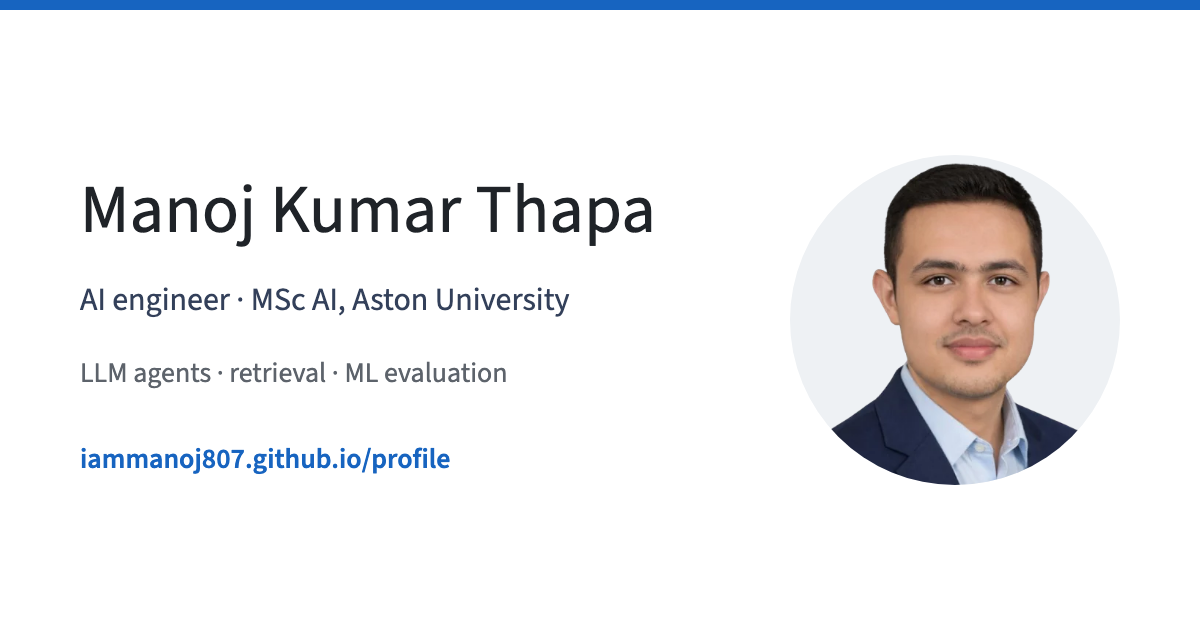
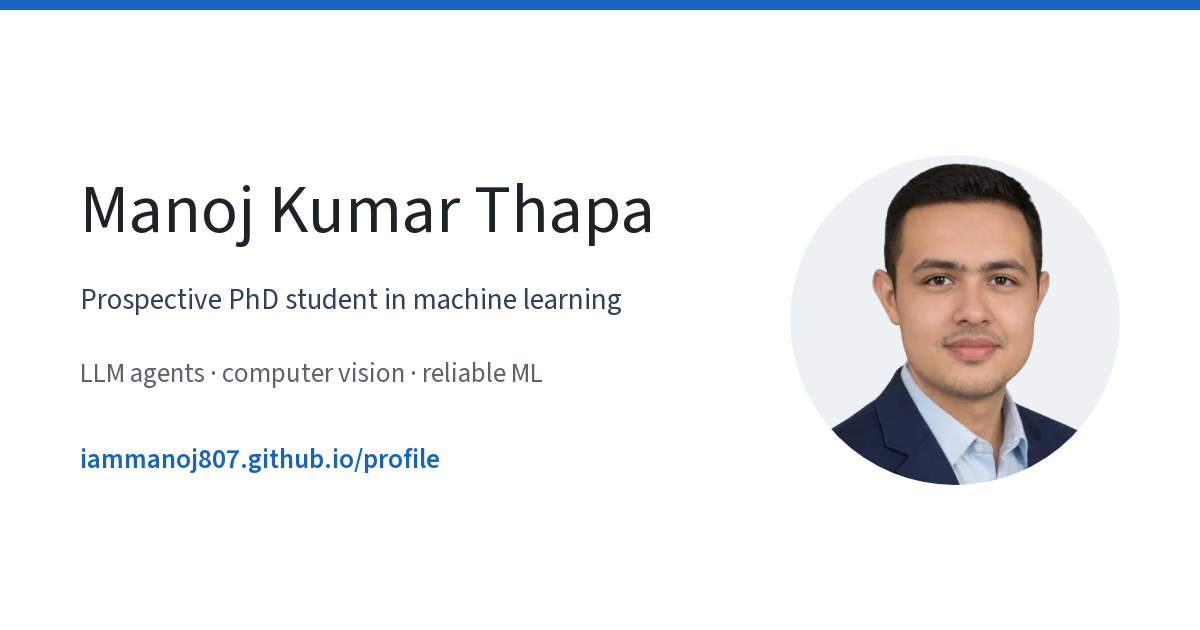
Point the homepage at PhD applications for Fall 2027

diff --git a/src/data/portfolioData.js b/src/data/portfolioData.js
@@ -13,15 +13,17 @@ import openNotebookLogo from '../assets/logos/open-notebook.png';
 
 export const portfolioData = {
     name: "Manoj Kumar Thapa",
-    title: "AI Software Engineer",
+    title: "Prospective PhD student in machine learning",
+    // Shown under the name on the homepage.
+    tagline: "Prospective PhD student in machine learning · Fall 2027",
     headlineWords: ["LLM agents", "graph-RAG systems", "vision models", "production APIs"],
     description: "MSc Artificial Intelligence graduate from Aston University. I build AI systems end to end: **Python and FastAPI** on the back, **React** on the front, and **golden sets, fault injection and baselines** to show they work. Before my MSc I was a software engineer at **Accenture**, where I cut REST API latency by **40%** in Java Spring Boot services.",
     resume_link: `${import.meta.env.BASE_URL}CV.pdf`,
     // Short bio for the homepage. {mergedCount} is filled in from openSource.
     bio: [
-        "I am an AI engineer in Birmingham, UK. I completed my MSc in Artificial Intelligence at **Aston University** in 2026; my dissertation studied how little labelled data a YOLOv8 detector needs. Before that I was a software engineer at **Accenture**, and I studied Computer Science at Dr. Ambedkar Institute of Technology.",
-        "I am interested in **LLM agents**, **retrieval** and the **evaluation of machine-learning systems**: building them, then checking that the numbers hold up. I also find and fix bugs in open-source ML libraries, and {mergedCount} of my pull requests have been merged. On [learn.hamropedia.com](https://learn.hamropedia.com/) I publish free courses in machine learning, SQL and system design.",
-        "I am looking for research opportunities in machine learning and am open to AI and ML engineering roles in the UK."
+        "I am applying to **PhD programs in Computer Science for Fall 2027**. I completed my MSc in Artificial Intelligence at **Aston University** in 2026; my thesis, supervised by Dr. Dan Dai, studied how far transfer learning can cut the labelled data an object detector needs. Before that I was a software engineer at **Accenture**, and I studied Computer Science at Dr. Ambedkar Institute of Technology.",
+        "My research interests are **large language models and AI agents**, **retrieval-augmented generation**, **computer vision**, **low-data and self-supervised learning**, and **reliable ML systems**. I like to build a model and then test whether its numbers hold up against baselines, ablations and reference implementations. I also find and fix bugs in widely used ML libraries: {mergedCount} of my pull requests have been merged, in projects including OpenCV, Feast and UC Berkeley's DocETL.",
+        "I am also open to research assistant positions in machine learning. On [learn.hamropedia.com](https://learn.hamropedia.com/) I publish free courses in machine learning, SQL and system design."
     ],
     address: "Birmingham, UK",
     relocation: "Open to relocation",
@@ -64,7 +66,7 @@ export const portfolioData = {
             title: "FruitGuard AI",
             screenshot: fruitguardShot,
             figure: fruitguardFig,
-            kicker: "MSc dissertation · computer vision",
+            kicker: "MSc thesis · computer vision",
             abstract: "Fine-tuned YOLOv8 with a two-phase transfer-learning pipeline: **96.3%** classification accuracy from only **207** labelled images, a 34x reduction against the 7,108 used for pre-training, **+6.03 pp** mAP@0.5:0.95 over the COCO-pretrained baseline, and **73 FPS** with ONNX Runtime.",
             highlight: true,
             date: "Aug 2025 – Apr 2026",
@@ -129,6 +131,7 @@ export const portfolioData = {
         },
         {
             title: "NeuroArc",
+            hidden: true, // not shown on the research-focused homepage
             screenshot: neuroarcShot,
             figure: neuroarcFig,
             kicker: "AI job application assistant",
@@ -152,6 +155,7 @@ export const portfolioData = {
 
     // News items besides merged PRs (those are listed automatically). date: "YYYY-MM" or "YYYY-MM-DD".
     news: [
+        { date: "2026-11-23", text: "Applying to **PhD programs in Computer Science** for Fall 2027." },
         { date: "2026-11-15", text: "Took part in the **2026 NASA Space Apps Challenge** (14–15 Nov) with Rehearsal Grounds, which finds Earth terrain that matches Moon and Mars landing sites." },
         { date: "2026-04-09", text: "Awarded my MSc in Artificial Intelligence by Aston University." }
     ],
@@ -400,7 +404,9 @@ export const portfolioData = {
             location: "Birmingham, UK",
             duration: "Jan 2025 – Jul 2026",
             grade: "70.37%",
-            gradeLabel: "Marks",
+            gradeLabel: "Average mark",
+            thesis: "Fruit Detection based on Transfer Learning for Agricultural Automation",
+            supervisor: "Dr. Dan Dai",
             transcript: `${import.meta.env.BASE_URL}transcripts/msc-ai-aston-transcript.jpg`,
             description: "Deep learning, NLP and computer vision. Dissertation: FruitGuard AI, few-shot fruit detection with YOLOv8, 96.3% accuracy from 207 labelled images, a 34x reduction against the pre-training set.",
             skills: ["PyTorch", "Deep Learning", "Computer Vision", "NLP", "Python"]

diff --git a/index.html b/index.html
@@ -4,30 +4,30 @@
 <head>
     <meta charset="UTF-8" />
     <meta name="viewport" content="width=device-width, initial-scale=1.0" />
-    <title>Manoj Kumar Thapa · AI Software Engineer</title>
+    <title>Manoj Kumar Thapa · Machine Learning</title>
     <meta name="description"
-        content="AI Software Engineer with an MSc in Artificial Intelligence from Aston University. Builds LLM agents, graph RAG and computer-vision systems, measured with golden sets and fault injection.">
+        content="Prospective PhD student in machine learning (Fall 2027). MSc Artificial Intelligence, Aston University. Research interests: LLMs and AI agents, retrieval, computer vision, low-data and self-supervised learning, reliable ML systems. 11 merged pull requests in OpenCV, Feast, DocETL and other ML libraries.">
     <meta name="theme-color" content="#faf9f6">
     <link rel="canonical" href="https://iammanoj807.github.io/profile/">
 
     <!-- Open Graph / Facebook -->
     <meta property="og:type" content="website">
     <meta property="og:url" content="https://iammanoj807.github.io/profile/">
-    <meta property="og:title" content="Manoj Kumar Thapa · AI Software Engineer">
+    <meta property="og:title" content="Manoj Kumar Thapa · Machine Learning">
     <meta property="og:description"
-        content="LLM agents, graph RAG and computer vision, measured before they ship. MSc Artificial Intelligence, Aston University.">
+        content="Prospective ML PhD student (Fall 2027). LLM agents, retrieval, computer vision and reliable ML. MSc Artificial Intelligence, Aston University.">
     <meta property="og:image"
         content="https://iammanoj807.github.io/profile/og-card.png">
     <meta property="og:image:width" content="1200">
     <meta property="og:image:height" content="630">
-    <meta property="og:image:alt" content="Manoj Kumar Thapa, AI Software Engineer: portfolio preview card">
+    <meta property="og:image:alt" content="Manoj Kumar Thapa, prospective PhD student in machine learning: homepage preview card">
     <meta property="og:site_name" content="Manoj Kumar Thapa">
 
     <!-- Twitter -->
     <meta name="twitter:card" content="summary_large_image">
-    <meta name="twitter:title" content="Manoj Kumar Thapa · AI Software Engineer">
+    <meta name="twitter:title" content="Manoj Kumar Thapa · Machine Learning">
     <meta name="twitter:description"
-        content="LLM agents, graph RAG and computer vision, measured before they ship. MSc Artificial Intelligence, Aston University.">
+        content="Prospective ML PhD student (Fall 2027). LLM agents, retrieval, computer vision and reliable ML. MSc Artificial Intelligence, Aston University.">
     <meta name="twitter:image"
         content="https://iammanoj807.github.io/profile/og-card.png">
 
@@ -48,7 +48,7 @@
         "@context": "https://schema.org",
         "@type": "Person",
         "name": "Manoj Kumar Thapa",
-        "jobTitle": "AI Software Engineer",
+        "jobTitle": "Prospective PhD student in machine learning",
         "url": "https://iammanoj807.github.io/profile/",
         "image": "https://iammanoj807.github.io/profile/og-card.png",
         "address": { "@type": "PostalAddress", "addressLocality": "Birmingham", "addressCountry": "GB" },
@@ -57,9 +57,9 @@
             { "@type": "CollegeOrUniversity", "name": "Dr. Ambedkar Institute of Technology" }
         ],
         "email": "mailto:thapam807@gmail.com",
-        "description": "AI Software Engineer. MSc Artificial Intelligence, Aston University. Builds LLM agents, graph RAG and computer-vision systems and measures them with golden sets, fault injection and baselines.",
+        "description": "Prospective PhD student in machine learning (Fall 2027). MSc Artificial Intelligence, Aston University. Research interests: LLMs and AI agents, retrieval, computer vision, low-data and self-supervised learning, reliable ML systems. 11 merged pull requests in OpenCV, Feast, DocETL and other ML libraries.",
         "knowsLanguage": ["en", "ne", "hi"],
-        "knowsAbout": ["LLM agents", "Retrieval-augmented generation", "Computer vision", "Python", "PyTorch", "FastAPI", "React", "Machine learning evaluation"],
+        "knowsAbout": ["Large language models", "AI agents", "Retrieval-augmented generation", "Computer vision", "Self-supervised learning", "Machine learning evaluation", "PyTorch"],
         "sameAs": [
             "https://github.com/iammanoj807",
             "https://www.linkedin.com/in/manoj-kumar-thapa-7595a5168",

diff --git a/src/components/Background.jsx b/src/components/Background.jsx
@@ -7,9 +7,9 @@ const ext = { target: '_blank', rel: 'noopener noreferrer' };
 const gradeText = (edu) =>
     edu.gradeLabel?.startsWith('CGPA') ? `CGPA ${edu.grade}/10` : `${edu.gradeLabel}: ${edu.grade}`;
 
-/** Publication, experience, education and certificates: the short, list-style part of the page. */
+/** Publication, education and experience: the short, list-style part of the page. */
 const Background = () => {
-    const { education, experience, certifications } = portfolioData;
+    const { education, experience } = portfolioData;
     const publications = education.map(e => e.publication).filter(Boolean);
 
     return (
@@ -29,20 +29,7 @@ const Background = () => {
                 </section>
             )}
 
-            <section className="section" aria-labelledby="experience">
-                <h2 id="experience">Experience</h2>
-                <ul className="plain-list dated">
-                    {experience.map(e => (
-                        <li key={e.company}>
-                            <span className="when">{e.duration}</span>
-                            <div>
-                                <strong>{e.title}</strong>, {e.company}, {e.location}.
-                                <div className="muted">{renderBoldText(e.description[0])}</div>
-                            </div>
-                        </li>
-                    ))}
-                </ul>
-            </section>
+
 
             <section className="section" aria-labelledby="education">
                 <h2 id="education">Education</h2>
@@ -58,21 +45,30 @@ const Background = () => {
                                         <a href={e.transcript} {...ext}>transcript</a>
                                     </>
                                 )}
+                                {e.thesis && (
+                                    <div className="muted">
+                                        Thesis: <em>{e.thesis}</em>{e.supervisor && <>, supervised by {e.supervisor}</>}
+                                    </div>
+                                )}
                             </div>
                         </li>
                     ))}
                 </ul>
-                {certifications?.length > 0 && (
-                    <p className="certs">
-                        Certificates:{' '}
-                        {certifications.map((c, i) => (
-                            <React.Fragment key={c.title}>
-                                {i > 0 && ' · '}
-                                <a href={c.link} {...ext}>{c.title}</a> ({c.subtitle})
-                            </React.Fragment>
-                        ))}
-                    </p>
-                )}
+            </section>
+
+            <section className="section" aria-labelledby="experience">
+                <h2 id="experience">Teaching and work experience</h2>
+                <ul className="plain-list dated">
+                    {experience.map(e => (
+                        <li key={e.company}>
+                            <span className="when">{e.duration}</span>
+                            <div>
+                                <strong>{e.title}</strong>, {e.company}, {e.location}.
+                                <div className="muted">{renderBoldText(e.description[0])}</div>
+                            </div>
+                        </li>
+                    ))}
+                </ul>
             </section>
         </>
     );

diff --git a/src/components/Intro.jsx b/src/components/Intro.jsx
@@ -9,7 +9,7 @@ const inWords = (n) => NUMBER_WORDS[n] ?? String(n);
 const external = (href) => (href.startsWith('mailto:') ? {} : { target: '_blank', rel: 'noopener noreferrer' });
 
 const Intro = () => {
-    const { name, bio, email, resume_link, social_links, openSource } = portfolioData;
+    const { name, tagline, bio, email, resume_link, social_links, openSource } = portfolioData;
     const profile = (label) => social_links.find(l => l.name === label)?.url;
     const links = [
         { label: 'Email', href: `mailto:${email}` },
@@ -23,6 +23,7 @@ const Intro = () => {
         <header className="intro">
             <div className="intro-text">
                 <h1 className="name">{name}</h1>
+                {tagline && <p className="tagline">{tagline}</p>}
                 {bio.map((paragraph, i) => (
                     <p key={i}>{renderBoldText(paragraph.replace('{mergedCount}', merged))}</p>
                 ))}

diff --git a/src/components/Research.jsx b/src/components/Research.jsx
@@ -8,12 +8,12 @@ const Research = () => (
     <section className="section" aria-labelledby="research">
         <h2 id="research">Research and projects</h2>
         <p className="section-intro">
-            Systems I built and then measured with golden sets, baselines and fault injection.
+            Research projects and systems I built, each measured against baselines, ablations or held-out test sets.
             Each figure shows a real result and opens full size; the <span className="hl-sample">highlighted</span> project
-            is my MSc dissertation.
+            is my MSc thesis.
         </p>
 
-        {portfolioData.projects.map(p => {
+        {portfolioData.projects.filter(p => !p.hidden).map(p => {
             const main = p.link || p.github;
             const picture = p.figure || p.screenshot;
             return (

diff --git a/src/index.css b/src/index.css
@@ -57,6 +57,7 @@ strong { font-weight: 600; }
   letter-spacing: 0.01em;
 }
 .intro p { margin: 0 0 12px; }
+.intro .tagline { margin: -4px 0 14px; font-size: 18px; color: var(--muted); text-align: center; }
 .links { text-align: center; margin-top: 18px !important; font-size: 17px; }
 .photo {
   width: 200px;

diff --git a/scripts/make_og_card.py b/scripts/make_og_card.py
@@ -1,0 +1,47 @@
+"""Redraw the text half of public/og-card.png (keeps the portrait half). Font: Source Sans 3 from github.com/google/fonts (ofl/sourcesans3). Usage: uv run --with pillow python scripts/make_og_card.py public/og-card.png out.png SourceSans3.ttf (edit `lines` first)."""
+import sys
+from PIL import Image, ImageDraw, ImageFont
+
+SRC, OUT, FONT = sys.argv[1], sys.argv[2], sys.argv[3]
+im = Image.open(SRC).convert("RGB")
+W, H = im.size
+
+def darkest(box):
+    reg = im.crop(box)
+    return min(reg.getdata(), key=sum)
+
+# text bands measured on the old card: (top, bottom)
+bands = [(183, 246), (288, 316), (362, 387), (448, 473)]
+colors = [darkest((80, t, 740, b)) for t, b in bands[:3]] + [(0x17, 0x64, 0xc0)]
+weights = [400, 400, 400, 600]
+lines = [
+    "Manoj Kumar Thapa",
+    "Prospective PhD student in machine learning",
+    "LLM agents · computer vision · reliable ML",
+    "iammanoj807.github.io/profile",
+]
+old_lines = ["Manoj Kumar Thapa", "AI engineer · MSc AI, Aston University", "LLM agents · retrieval · ML evaluation", "iammanoj807.github.io/profile"]
+
+out = im.copy()
+d = ImageDraw.Draw(out)
+d.rectangle((0, 12, 770, H), fill=(255, 255, 255))
+
+def font(size, wght):
+    f = ImageFont.truetype(FONT, size)
+    f.set_variation_by_axes([wght])
+    return f
+
+for (top, bottom), text, old, col, wg in zip(bands, lines, old_lines, colors, weights):
+    # pick the size whose ink height for the OLD text matches the old band height
+    target = bottom - top
+    size = min(range(14, 120), key=lambda s: abs((lambda b: b[3] - b[1])(d.textbbox((0, 0), old, font=font(s, wg), anchor="ls")) - target))
+    f = font(size, wg)
+    bb = d.textbbox((0, 0), text, font=f, anchor="ls")
+    width = bb[2] - bb[0]
+    while 80 + width > 740:  # keep clear of the portrait
+        size -= 1; f = font(size, wg); bb = d.textbbox((0, 0), text, font=f, anchor="ls"); width = bb[2] - bb[0]
+    old_bb = d.textbbox((0, 0), old, font=f, anchor="ls")
+    baseline = top - old_bb[1]
+    d.text((80, baseline), text, font=f, fill=col, anchor="ls")
+    print(f"{text!r}: size {size}, weight {wg}, width {width}, colour #{col[0]:02x}{col[1]:02x}{col[2]:02x}")
+out.save(OUT, optimize=True)
